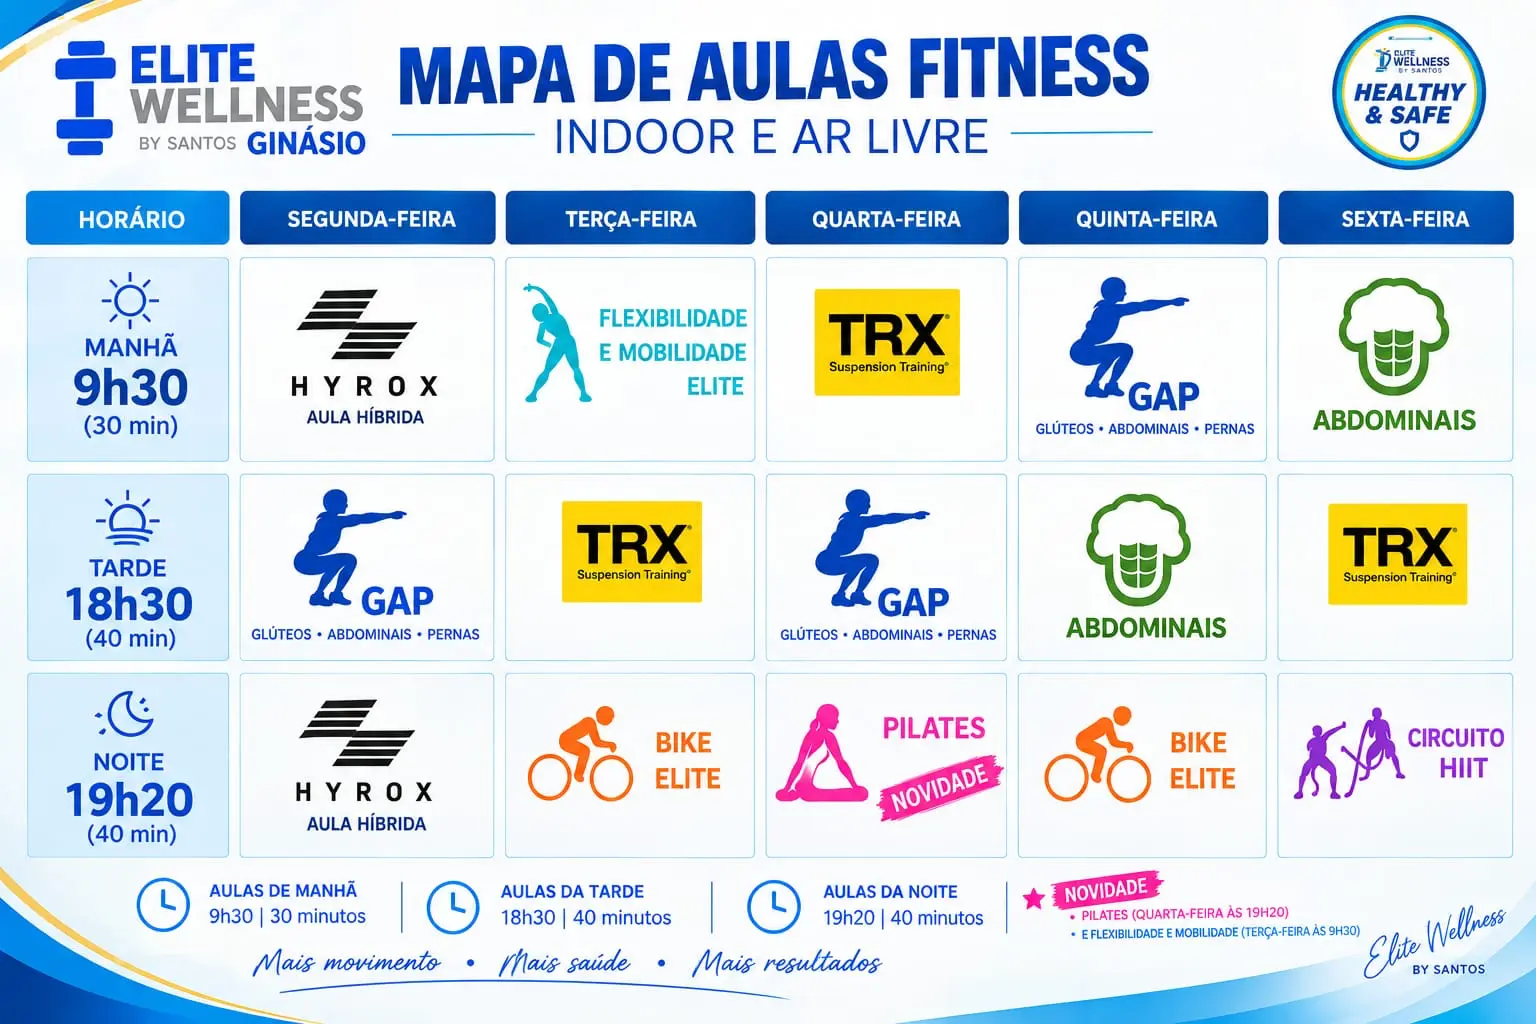
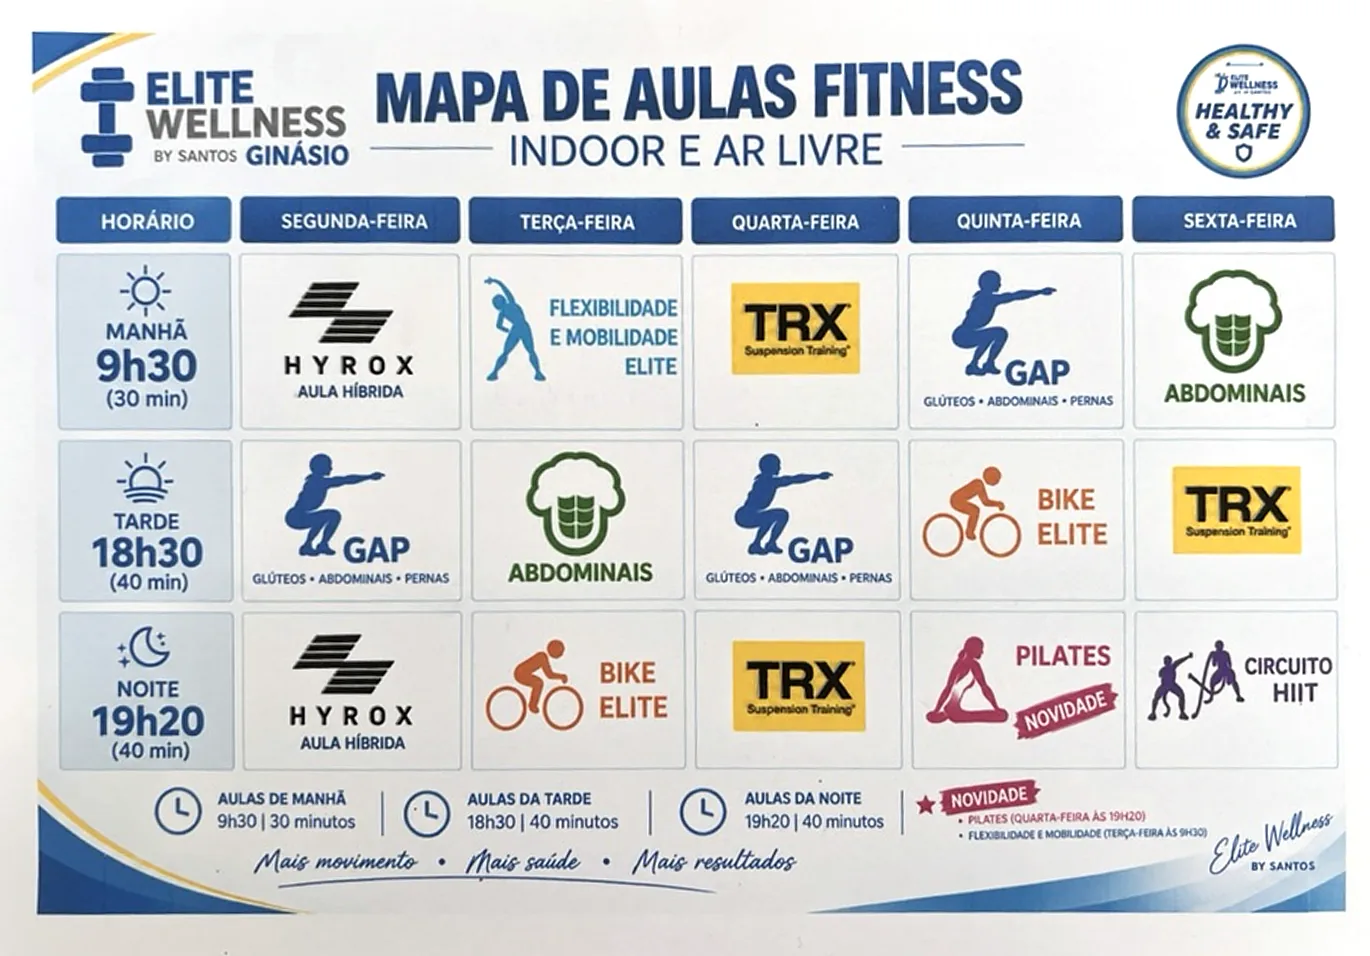
Timetable from the October poster
Tuesday 18:30 is now Abs, Wednesday 19:20 TRX, Thursday 18:30 Bike Elite
and 19:20 Pilates (new). The poster is the photo of the print, squared
up and cleaned, for the no-JavaScript fallback.

Claude-Session: https://claude.ai/code/session_01Jud6ztty78yQdq4PcBB2Vi

diff --git a/schedule.js b/schedule.js
@@ -10,7 +10,7 @@
   - isNew: true shows a "new" tag next to the class
 */
 window.ELITE_SCHEDULE = {
-  updated: "2026-09-21",
+  updated: "2026-10-07",
   poster: "assets/timetable.webp",
 
   classes: {
@@ -30,16 +30,16 @@ window.ELITE_SCHEDULE = {
     { day: "mon", time: "19:20", minutes: 40, class: "hyrox" },
 
     { day: "tue", time: "09:30", minutes: 30, class: "mobility", isNew: true },
-    { day: "tue", time: "18:30", minutes: 40, class: "trx" },
+    { day: "tue", time: "18:30", minutes: 40, class: "abs" },
     { day: "tue", time: "19:20", minutes: 40, class: "bike" },
 
     { day: "wed", time: "09:30", minutes: 30, class: "trx" },
     { day: "wed", time: "18:30", minutes: 40, class: "gap" },
-    { day: "wed", time: "19:20", minutes: 40, class: "pilates", isNew: true },
+    { day: "wed", time: "19:20", minutes: 40, class: "trx" },
 
     { day: "thu", time: "09:30", minutes: 30, class: "gap" },
-    { day: "thu", time: "18:30", minutes: 40, class: "abs" },
-    { day: "thu", time: "19:20", minutes: 40, class: "bike" },
+    { day: "thu", time: "18:30", minutes: 40, class: "bike" },
+    { day: "thu", time: "19:20", minutes: 40, class: "pilates", isNew: true },
 
     { day: "fri", time: "09:30", minutes: 30, class: "abs" },
     { day: "fri", time: "18:30", minutes: 40, class: "trx" },
